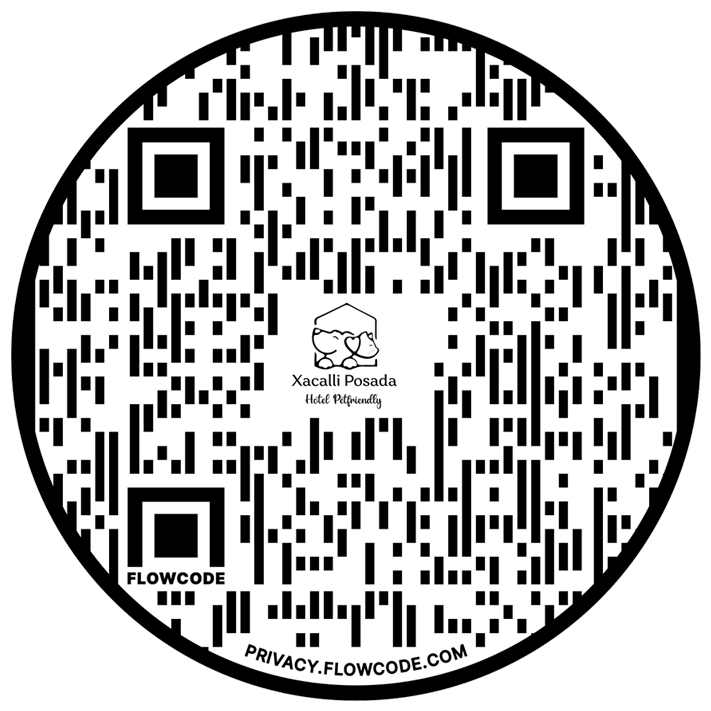
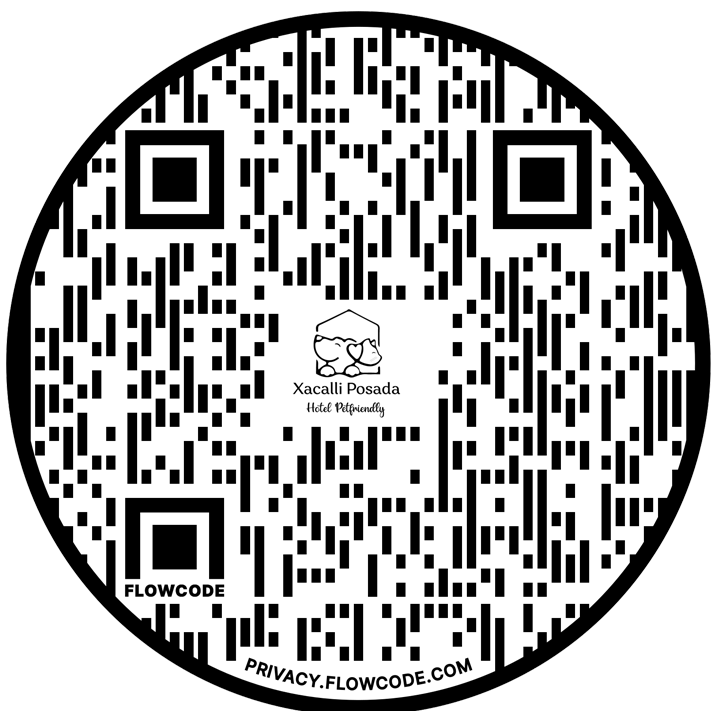
prueba img git

diff --git a/README.md b/README.md
@@ -1,5 +1,10 @@
 # Proyecto Xacalli Posada
 
+| No | Nombre | Descripción | Link | Código QR |
+| ---------- | ---------- | ---------- | ---------- | ---------- |
+| No | [![Api Xacalli](./img/prueba.png)](https://bit.ly/RepoApiXacalliPosada) | Descripción | Link | Código QR |
+
+
 | No | Nombre Repositorio | Descripción | Link | Código QR |
 | ---------- | ---------- | ---------- | ---------- | ---------- |
 | 1 | Api Xacalli Posada |  | [Repositorio](https://bit.ly/RepoApiXacalliPosada) | [![Api Xacalli](./img/api_xacalli_posada.png)](https://bit.ly/RepoApiXacalliPosada) |
